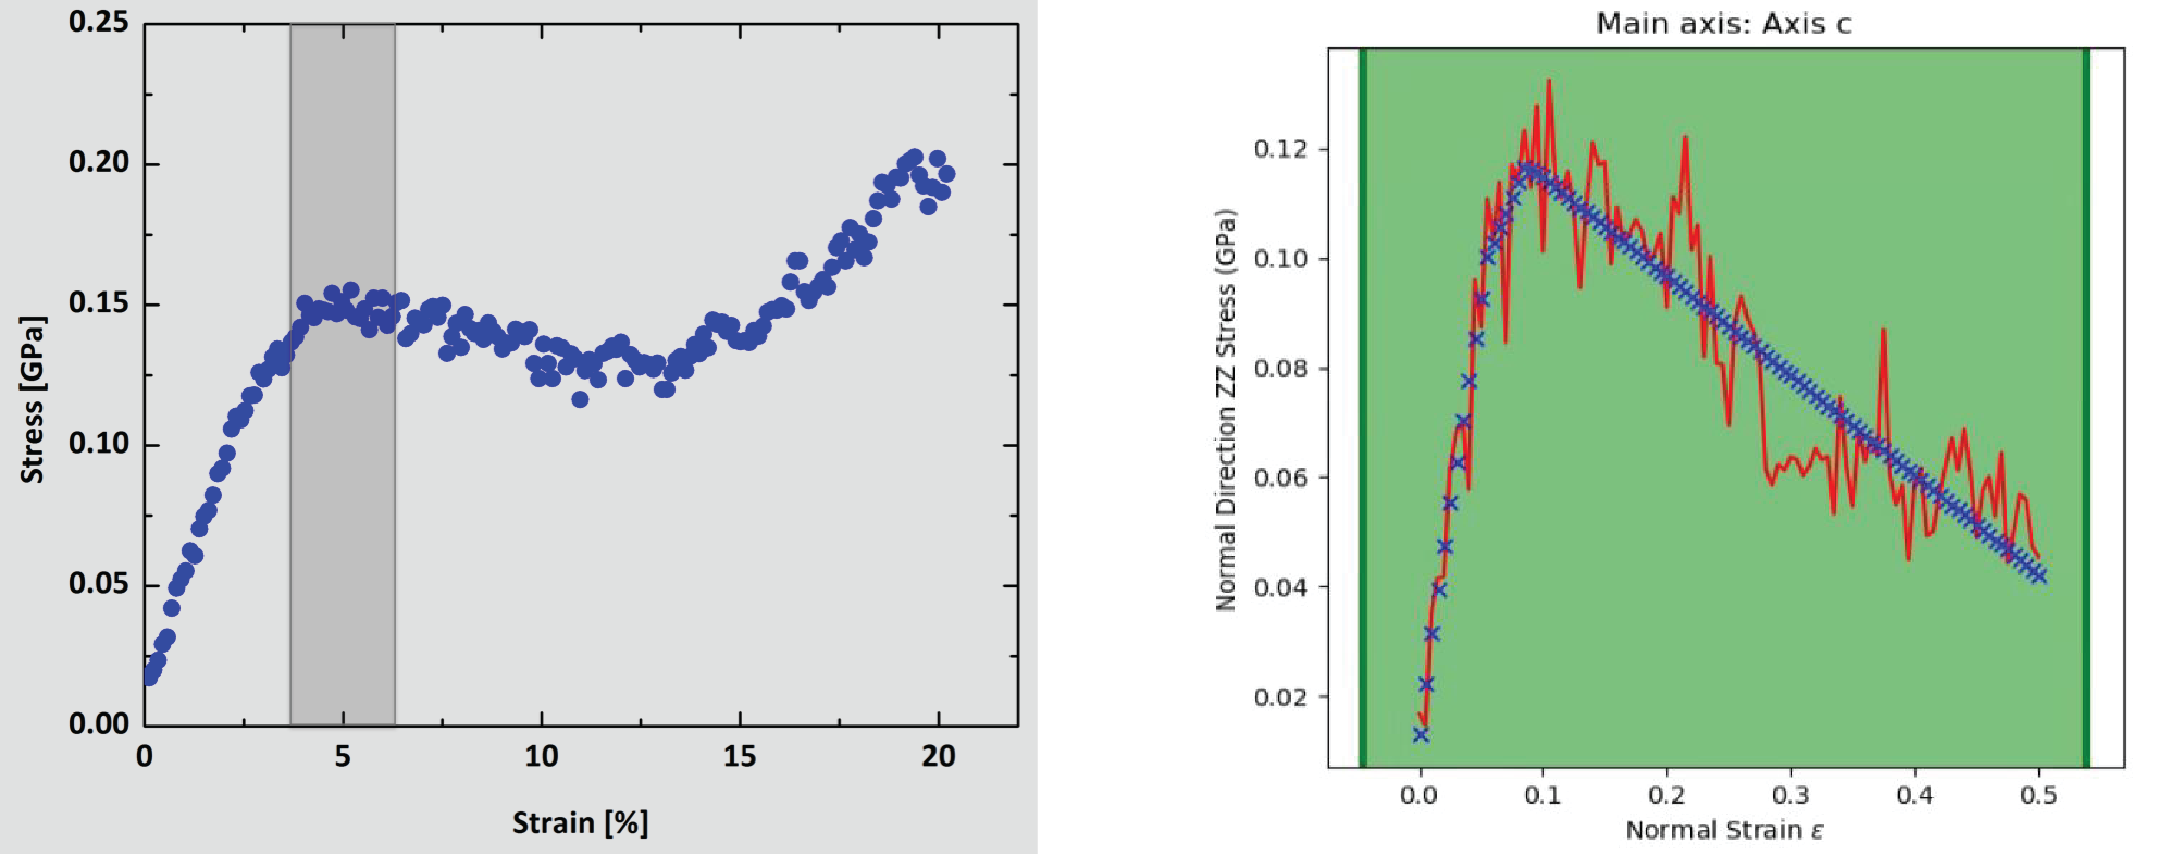
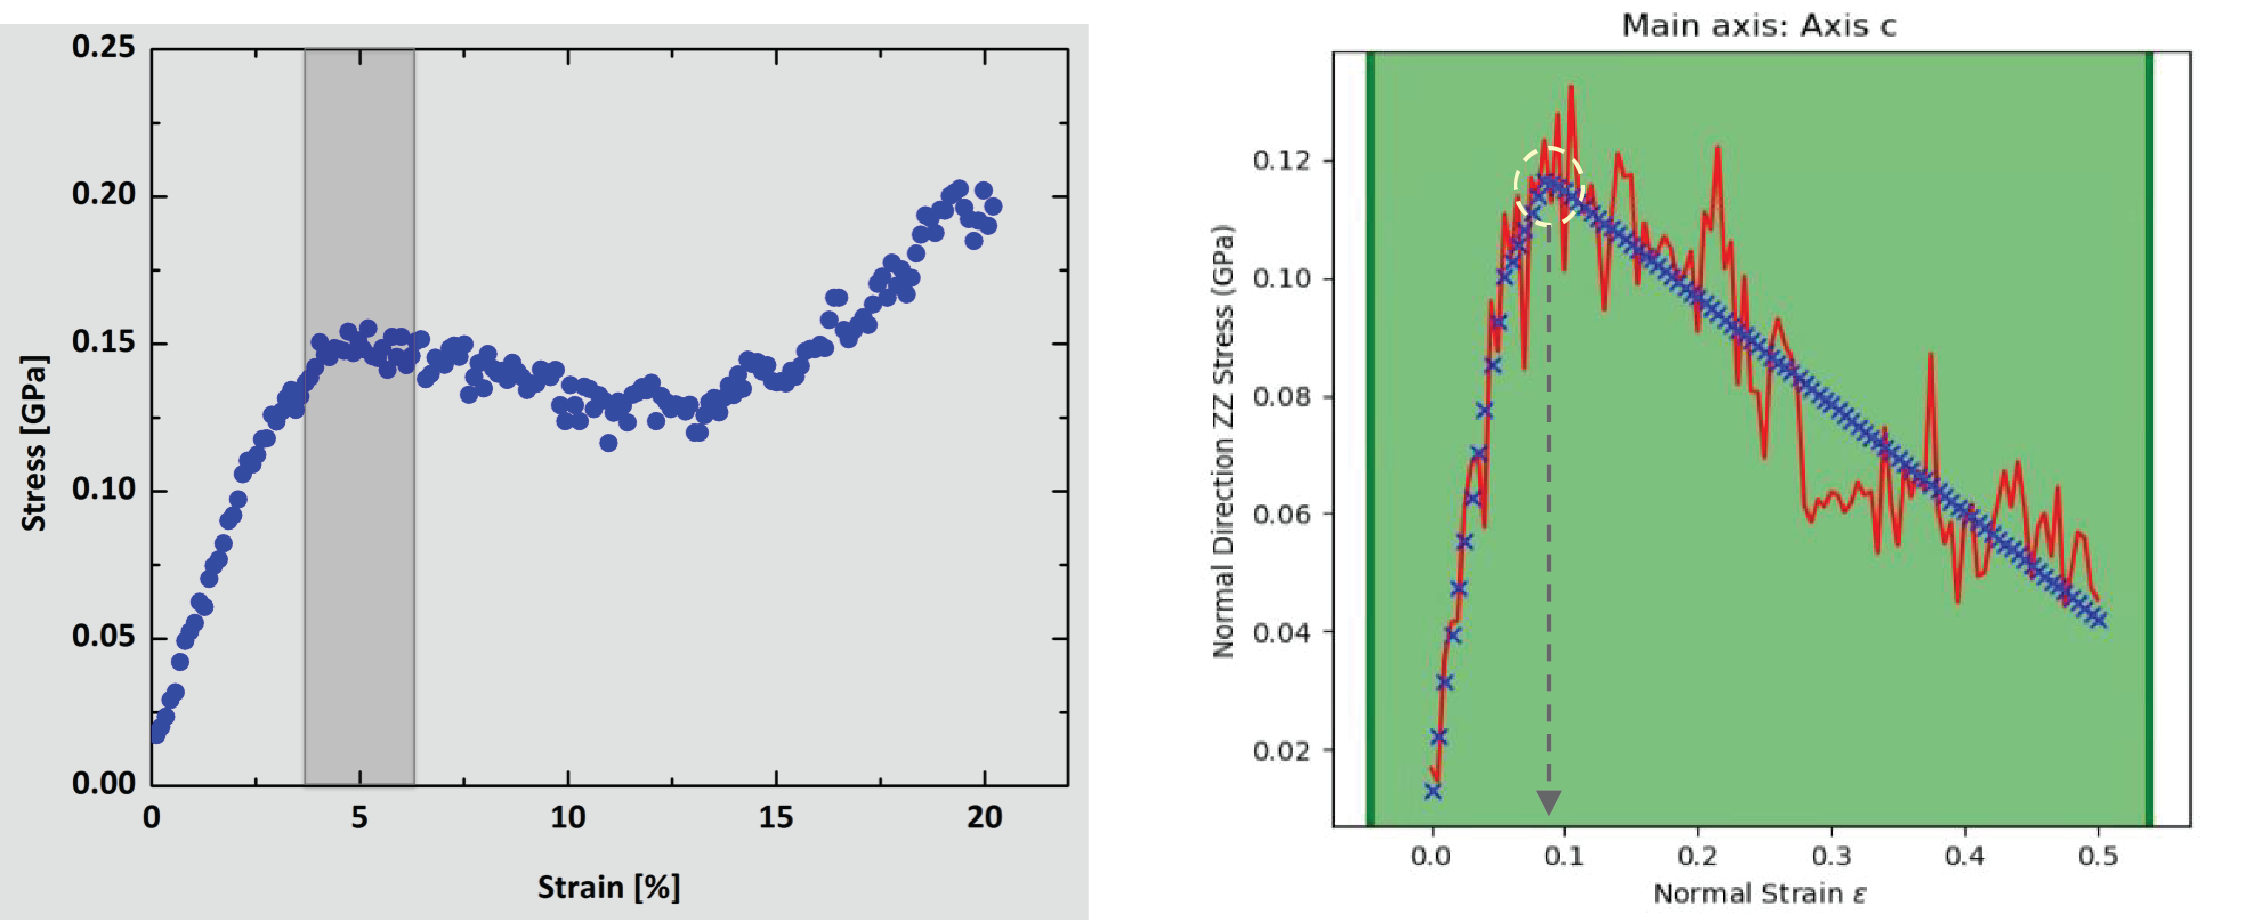
Fix stress strain figure and caption

diff --git a/papers/alexandr_fonari/alexandr_fonari.rst b/papers/alexandr_fonari/alexandr_fonari.rst
@@ -155,7 +155,7 @@ Obtained calculated yield of 10% *vs.* experimental value within 9-18% range (Fi
    :align: center
    :figclass: w
 
-   Left: The uniaxial stress/strain curve of a polymer calculated using Desmond MD through the Stress Strain module using the OPLS3 force-field. Grey band indicates inflection point (yield). Right: Constant strain simulation with convex analysis indicates elongation at yield. :label:`fig_stress_strain`
+   Left: The uniaxial stress/strain curve of a polymer calculated using Desmond through the stress strain workflow using the OPLS3 force-field, grey band indicates inflection point (yield)). Right: Constant strain simulation with convex analysis indicates elongation at yield. Red curve - simulated stress versus strain. Blue curve - convex analysis. :label:`fig_stress_strain`
 
 The ``scipy.optimize`` package is used for a least-squares fit of the bulk energies at different cell volumes (compressed and expanded) in order to obtain the bulk modulus and equation of state (EOS) of a material.
 In the Schrödinger suite this was implemented as a part of an EOS workflow, in which fitting is performed on the results obtained from a series of QE calculations performed on the original as well as compressed and expanded (deformed) cells.
